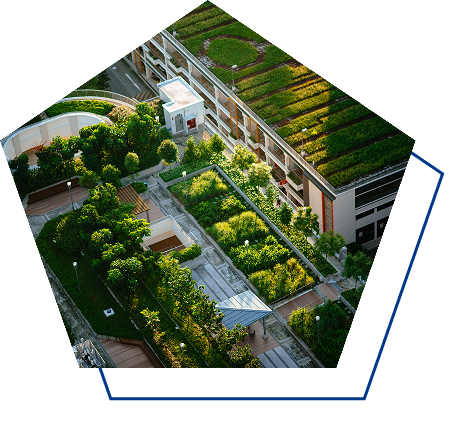
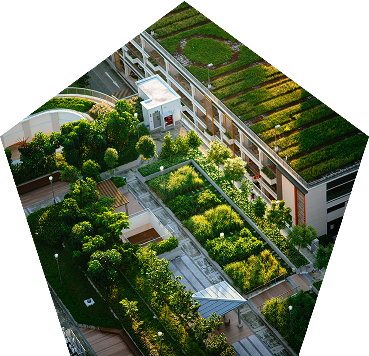
Ajout de nouveaux éléments graphiques avec des images SVG et mise à jour du composant Content pour intégrer des effets de survol.

diff --git a/src/components/Content.vue b/src/components/Content.vue
@@ -14,8 +14,14 @@
             </p>
         </div>
         <div class="content_image">
-            <img class="hex-img" src="@/assets/img/hex-2.png" alt="green" />
-            <img class="hex-img offset" src="@/assets/img/hex-1.png" alt="green" />
+            <div class="hex-img-hover">
+                <img class="hex-img" src="@/assets/img/hex-2.png" alt="green" />
+                <img class="poly" src="@/assets/img/poly-1.svg" alt="polygon">
+            </div>
+            <div class="hex-img-hover">
+                <img class="hex-img offset" src="@/assets/img/hex-1.png" alt="green" />
+                <img class="poly-2" src="@/assets/img/poly-2.svg" alt="polygon">
+            </div>
 
         </div>
     </div>
@@ -26,6 +32,7 @@
 section {
    padding: 4.8rem 0;
 }
+
 .content {
     display: flex;
     align-items: flex-start;
@@ -39,18 +46,52 @@ section {
     line-height: 1.5;
     color: #737373;
 }
-.content-image{
+.content_image{
   display: flex;
   flex-direction: column;
   align-items: flex-start;
   gap: 4rem;
   padding: 2rem;
+  width: 100%;
 }
-
-.hex-img {
+.hex-img-hover {
+  position: relative;
   width: 250px;
   height: auto;
 }
+
+.hex-img {
+  width: 100%;
+  display: block;
+  position: relative;
+  z-index: 2;
+}
+
+.poly {
+  width: 100%;
+  position: absolute;
+  top: 2px;
+  left: 0;
+  z-index: 1;
+  transition: transform 0.3s ease;
+}
+.poly-2{
+   width: 100%;
+  position: absolute;
+  top: 10px;
+  left: 80px;
+  z-index: 1;
+  transition: transform 0.3s ease;
+}
+
+
+.hex-img-hover:hover .poly{
+  transform: translate(12px, 12px);
+}
+.hex-img-hover:hover .poly-2 {
+    transform: translate(12px, 24px);
+}
+
 
 .offset {
   margin-left: 80px; 
